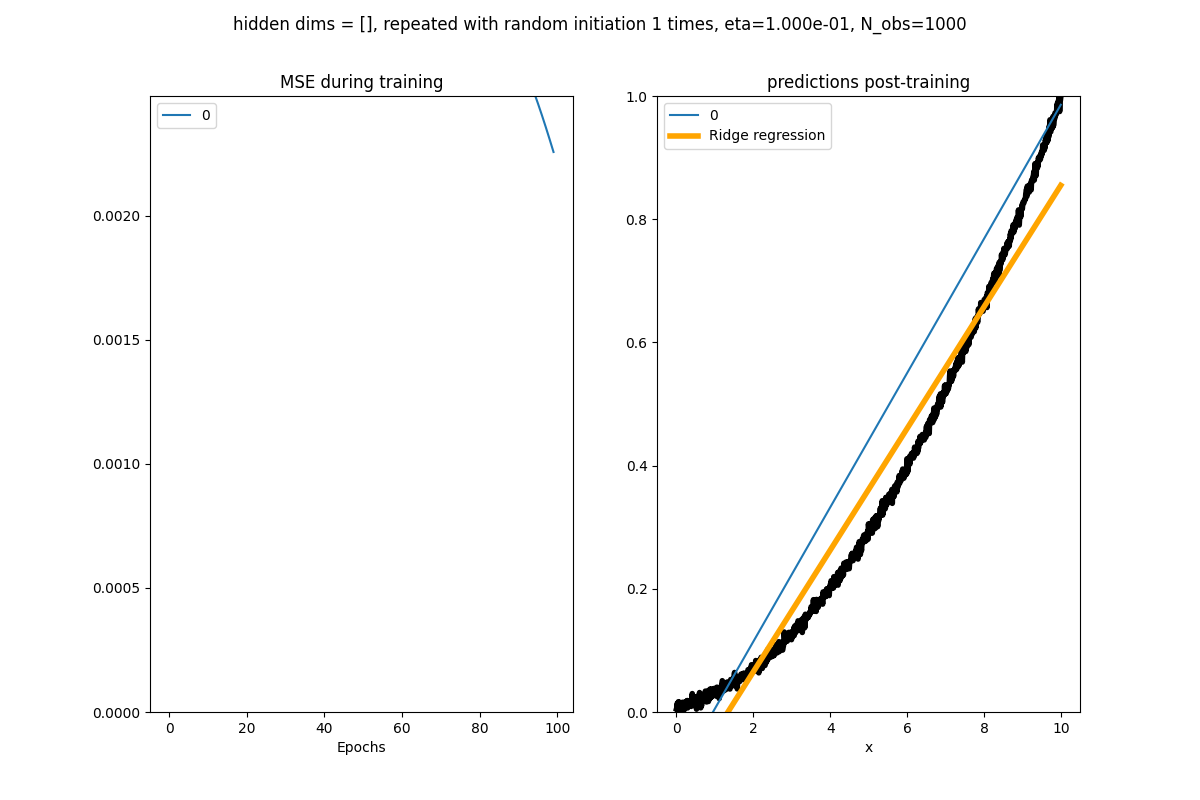
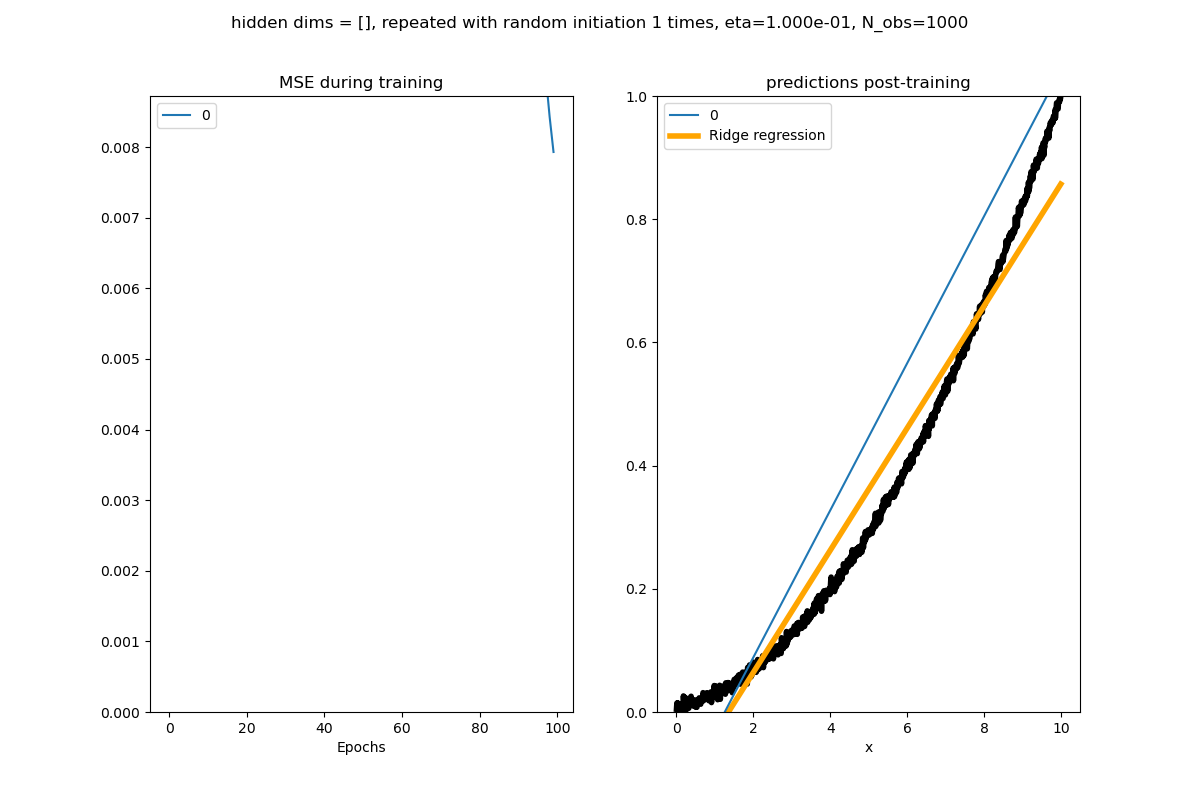
Added MNIST classification

diff --git a/src/main_test.py b/src/main_test.py
@@ -48,7 +48,7 @@ lr = 0.1
 epochs_max = 1000   # maximum number of epochs to consider before tuning it as a HP
 # num_batches = 32
 num_batches = 4
-
+dropout_retain_proba = 1.0
 
 loss_func_name = "MSE"
 # loss_func_name = "cross-entropy"      # only use when final layer outcome are in range (0, 1] ! E.g. with sigmoid, softmax activations
@@ -123,18 +123,7 @@ elif data_mode == 2:
     X = StandardScaler().fit_transform(X)
     y = y.values.reshape(-1, 1)
 
-    idx = np.arange(len(y))
 
-    assert len(idx) == X.shape[0]
-
-    idx_train, idx_evaluation = train_test_split(idx, train_size=0.7, 
-                                             random_state=random_state)
-
-    X_train = X[idx_train,:]
-    X_evaluation = X[idx_evaluation,:]
-
-    y_train = y[idx_train]
-    y_evaluation = y[idx_evaluation]
 
 
     output_dim = 1
@@ -147,19 +136,32 @@ elif data_mode == 2:
     # outcome_func_deriv = utils.derivate(utils.sigmoid)
 
 
+
 # TODO: resevere test set NOT for training
+idx = np.arange(len(y))
+
+assert len(idx) == X.shape[0]
+
+idx_train, idx_evaluation = train_test_split(idx, train_size=0.7,
+                                         random_state=random_state)
+
+X_train = X[idx_train,:]
+X_evaluation = X[idx_evaluation,:]
+
+y_train = y[idx_train]
+y_evaluation = y[idx_evaluation]
 
 # Set up parameters for the FFN
 
 activation_func_list = [
-                        # utils.sigmoid,
+                        utils.sigmoid,
                         utils.RELU,
-                        # utils.LRELU,
+                        utils.LRELU,
                         # utils.softmax
                         ]
 
 schedule_list = [
-                ConstantScheduler(0.1),
+                ConstantScheduler(lr)
                 # ConstantScheduler(0.1),
                 # MomentumScheduler(0.1, 0.9),
                 # AdagradScheduler(0.1),
@@ -177,8 +179,7 @@ error_log = ""
 
 
 max_loss = 0
-
-"""
+'''
 for activation_func in activation_func_list:
 
     for scheduler in schedule_list:
@@ -214,7 +215,7 @@ for activation_func in activation_func_list:
             else:
                 epochs_opt = epochs_max
 
-            net.init_random_weights_biases(verbose=False)
+            net.init_random_weights_biases(verbose=True)
 
 
             loss_epochs = net.train(X_train, y_train, epochs=epochs_opt,
@@ -240,7 +241,7 @@ for activation_func in activation_func_list:
             # TODO: ADD TEST SET PREDICTIONS / LOSS
             fig, ax = plt.subplots(ncols=2, figsize=(12, 8))
             ax, ax1 = ax
-            ax1.set_ylim(0, 1)
+            # ax1.set_ylim(0, 1)
 
 
             if data_mode == 2:
@@ -263,7 +264,7 @@ for activation_func in activation_func_list:
             ax.set_title(f"{loss_func_name} during training")
             ax.set_xlabel("Epochs")
             ax.set_ylabel("Loss")
-            ax.set_ylim(0, max_loss * 1.1)
+            # ax.set_ylim(0, max_loss * 1.1)
             ax.legend()
 
             if data_mode == 1:
@@ -322,13 +323,13 @@ for activation_func in activation_func_list:
             error_log += f"Exception: {e}\n" + f"Activation function: {activation_func.__name__}\n" + f"Scheduler: {scheduler.__class__.__name__}\n"
 
             continue
-"""
+'''
 
 def grid_search():
     # TODO: Change to test set, or include both, test & training accuracy
     n = 10       # Tests for learning rate and hyperparameter
     start = -8  # In log_10 scale for learning rate & lmbd
-    end = 1         
+    end = 1
     eta_vals = np.logspace(start, end, n)
     lmbd_vals = np.logspace(start, end, n)
     iterations = len(eta_vals) * len(lmbd_vals)
@@ -360,7 +361,7 @@ def grid_search():
             loss_epochs = net.train(X_train, y_train, epochs=epochs_max,
                                     scheduler=scheduler, dropout_retain_proba=1,
                                     verbose=False)
-            
+
             yhat = net.predict_feed_forward(X_evaluation)             # Also change to test set
             if data_mode == 2:
                 y_hat_binary = np.zeros((yhat.shape[0], 1))

diff --git a/src/mnist_classification.py b/src/mnist_classification.py
@@ -1,0 +1,129 @@
+from project_2_utils import *
+from neural_net import fnn
+from sklearn.datasets import load_digits
+from sklearn.preprocessing import StandardScaler, MinMaxScaler
+import sys
+import os
+
+mnist_data = load_digits()
+mnist_images = mnist_data.images
+out_classes = mnist_data.target
+del mnist_data
+
+
+eta = 0.1
+epochs = 100
+dropout_proba = 1.0
+loss_name = "cross-entropy"
+
+# dims_hidden = [32]
+dims_hidden = []
+scheduler = MomentumScheduler(eta, momentum=0.9)
+
+savename = f"dims={dims_hidden}_eta={eta:.1e}_dropout={dropout_proba:.2f}.png"
+
+# dims_hidden = [32]
+# scheduler = ConstantScheduler(eta)
+folder_save = os.path.join("figs", "mnist classif")
+if not os.path.exists(folder_save):
+    os.mkdir(folder_save)
+
+
+print(mnist_images.shape)
+print(out_classes.shape)
+print(out_classes)
+
+num_obs = len(out_classes)
+img_dims = mnist_images.shape[1:]
+dim_input = np.prod(img_dims)
+
+X = mnist_images.reshape(num_obs, dim_input)
+print(X.shape)
+
+# plt.imshow(X[0].reshape(img_dims))
+# plt.show()
+
+
+# Encode outcome to vector of shape (n_obs, 10) with one 1 at index of correct image label, and remaining zeros
+dim_output = 10
+print(out_classes)
+y = np.zeros(shape=(num_obs, 10))
+for i, i_num in enumerate(out_classes):
+    y[i, i_num] = 1
+
+print(y.shape, y.reshape(-1).shape)
+print(np.count_nonzero(y.reshape(-1)))
+
+
+X_train, X_test, y_train, y_test = train_test_split(X, y, test_size=0.25)
+
+fig, ax = plt.subplots(ncols=2)
+ax[0].imshow(X_train[0].reshape(img_dims))
+
+# scaler = StandardScaler()
+scaler = MinMaxScaler(feature_range=(-1, 1))
+X_train = scaler.fit_transform(X_train)
+X_test = scaler.transform(X_test)
+
+print(X_train.shape, X_test.shape, y_train.shape, y_test.shape)
+
+ax[1].imshow(X_train[0].reshape(img_dims))
+# plt.show()
+plt.close()
+# sys.exit()
+
+
+
+net = fnn(dim_input=dim_input, dim_output=dim_output, dims_hiddens=dims_hidden, learning_rate=eta, batches=3,
+          loss_func_name=loss_name, scheduler=scheduler,
+          outcome_func=sigmoid, outcome_func_deriv=sigmoid_derivated,
+          activation_func=sigmoid, activation_func_deriv=sigmoid_derivated)
+
+net.init_random_weights_biases(verbose=True)
+loss_per_epoch = net.train(X_train, y_train, dropout_retain_proba=dropout_proba, epochs=epochs, verbose=True)
+# print(np.shape(loss_per_epoch))
+
+fig, ax = plt.subplots()
+ax.plot(list(range(1, epochs+1)), loss_per_epoch)
+ax.set_xlabel("epoch")
+ax.set_ylabel(loss_name)
+
+# sys.exit()
+
+yhat_test = net.predict_feed_forward(X_test)
+yhat_train = net.predict_feed_forward(X_train)
+
+mse_test = np.mean(mse_loss(yhat_test, y_test))
+mse_train = np.mean(mse_loss(yhat_train, y_train))
+
+print(f"MSE train / test = {mse_train:.2e} / {mse_test:.2e}")
+
+yhat_train_binary = np.copy(yhat_train)
+yhat_train_binary[yhat_train_binary > 0.5] = 1
+yhat_train_binary[yhat_train_binary < 0.5] = 0
+yhat_test_binary = np.copy(yhat_test)
+yhat_test_binary[yhat_test_binary > 0.5] = 1
+yhat_test_binary[yhat_test_binary < 0.5] = 0
+
+
+acc_train = accuracy_score(y_train, yhat_train_binary)
+acc_test = accuracy_score(y_test, yhat_test_binary)
+
+print(f"Acc train / test = {np.mean(acc_train):.2f} / {np.mean(acc_test):.2f}")
+print("\ttest accuracy per outcome class:", np.round(acc_test, 2))
+
+print([np.shape(w) for w in net.weights])
+
+fig, ax = plt.subplots(ncols=5, nrows=2, figsize=(16, 8))
+ax = ax.ravel()
+
+for i, w in enumerate(net.weights[0].T):
+    ax[i].imshow(w.reshape(img_dims))
+    ax[i].set_title(i)
+
+fig.suptitle(f"lr={eta:.2e}, epoch={epochs:.1e}, scheduler={type(scheduler)}, dropout_proba={dropout_proba:.2f}\n"
+             f"acc train / test = {np.mean(acc_train):.2f} / {np.mean(acc_test):.2f}")
+fig.tight_layout()
+
+fig.savefig(os.path.join(folder_save, savename))
+plt.show()

diff --git a/src/neural_net.py b/src/neural_net.py
@@ -149,7 +149,7 @@ class fnn():
         # print("weights", [np.shape(w) for w in self.weights])
         verbose = kwargs.get("verbose", False)
 
-        num_obs = len(y)
+        num_obs = y.shape[0]
 
         # loss = np.square(self.activations[-1] - y)     # prediction - ground truth squared
         # dC = 2 * (self.activations[-1] - y)     # derivative of squared error
@@ -282,9 +282,12 @@ class fnn():
                 self.schedulers_weights[n].reset()
                 self.schedulers_biases[n].reset()
 
-            if verbose:
+            if verbose and not e%100:
                 print("epoch", e, loss.shape, f"loss mean / median = {np.mean(loss):.1e} / {np.median(loss):.1e}")
-                print("\tnonzero weights:", [f"{len(np.nonzero(w))} of {len(w)}" for w in self.weights])
+
+                nonzero_percent = [np.count_nonzero(w.reshape(-1)) / np.prod(w.shape) * 100 for w in self.weights]
+                # print("\tnonzero weights:", [f"{np.count_nonzero(np.mean(w, axis=0))} of {len(w)}" for w in self.weights])
+                print(f"\tnonzero weights: {np.round(nonzero_percent, 1)} %")
 
             # loss_for_epochs.append(np.mean(loss))
             loss_for_epochs.append(np.mean(loss_for_batches))
@@ -362,6 +365,9 @@ class fnn():
 
         self.neurons_to_retain = [np.random.choice(range(dh), int(dh * self.dropout_retain_proba), replace=False) for dh in
                              self.dims_hiddens]
+        # print([dh for dh in self.dims_hiddens])
+        # print([len(nrt) for nrt in self.neurons_to_retain])
+        # sys.exit()
 
         self.weights_before_dropout = copy(self.weights)
         self.biases_before_dropout = copy(self.biases)

diff --git a/src/keras_test.py b/src/keras_test.py
@@ -30,7 +30,7 @@ model = Sequential()
 model.add(Dense(units=1, input_dim=X_train.shape[1], activation='relu'))
 
 # Add a hidden layer with dropout
-model.add(Dense(units=64, activation='relu'))
+model.add(Dense(units=4, activation='relu'))
 #model.add(Dropout(0.5))
 
 # Add the output layer with sigmoid activation for binary classification
